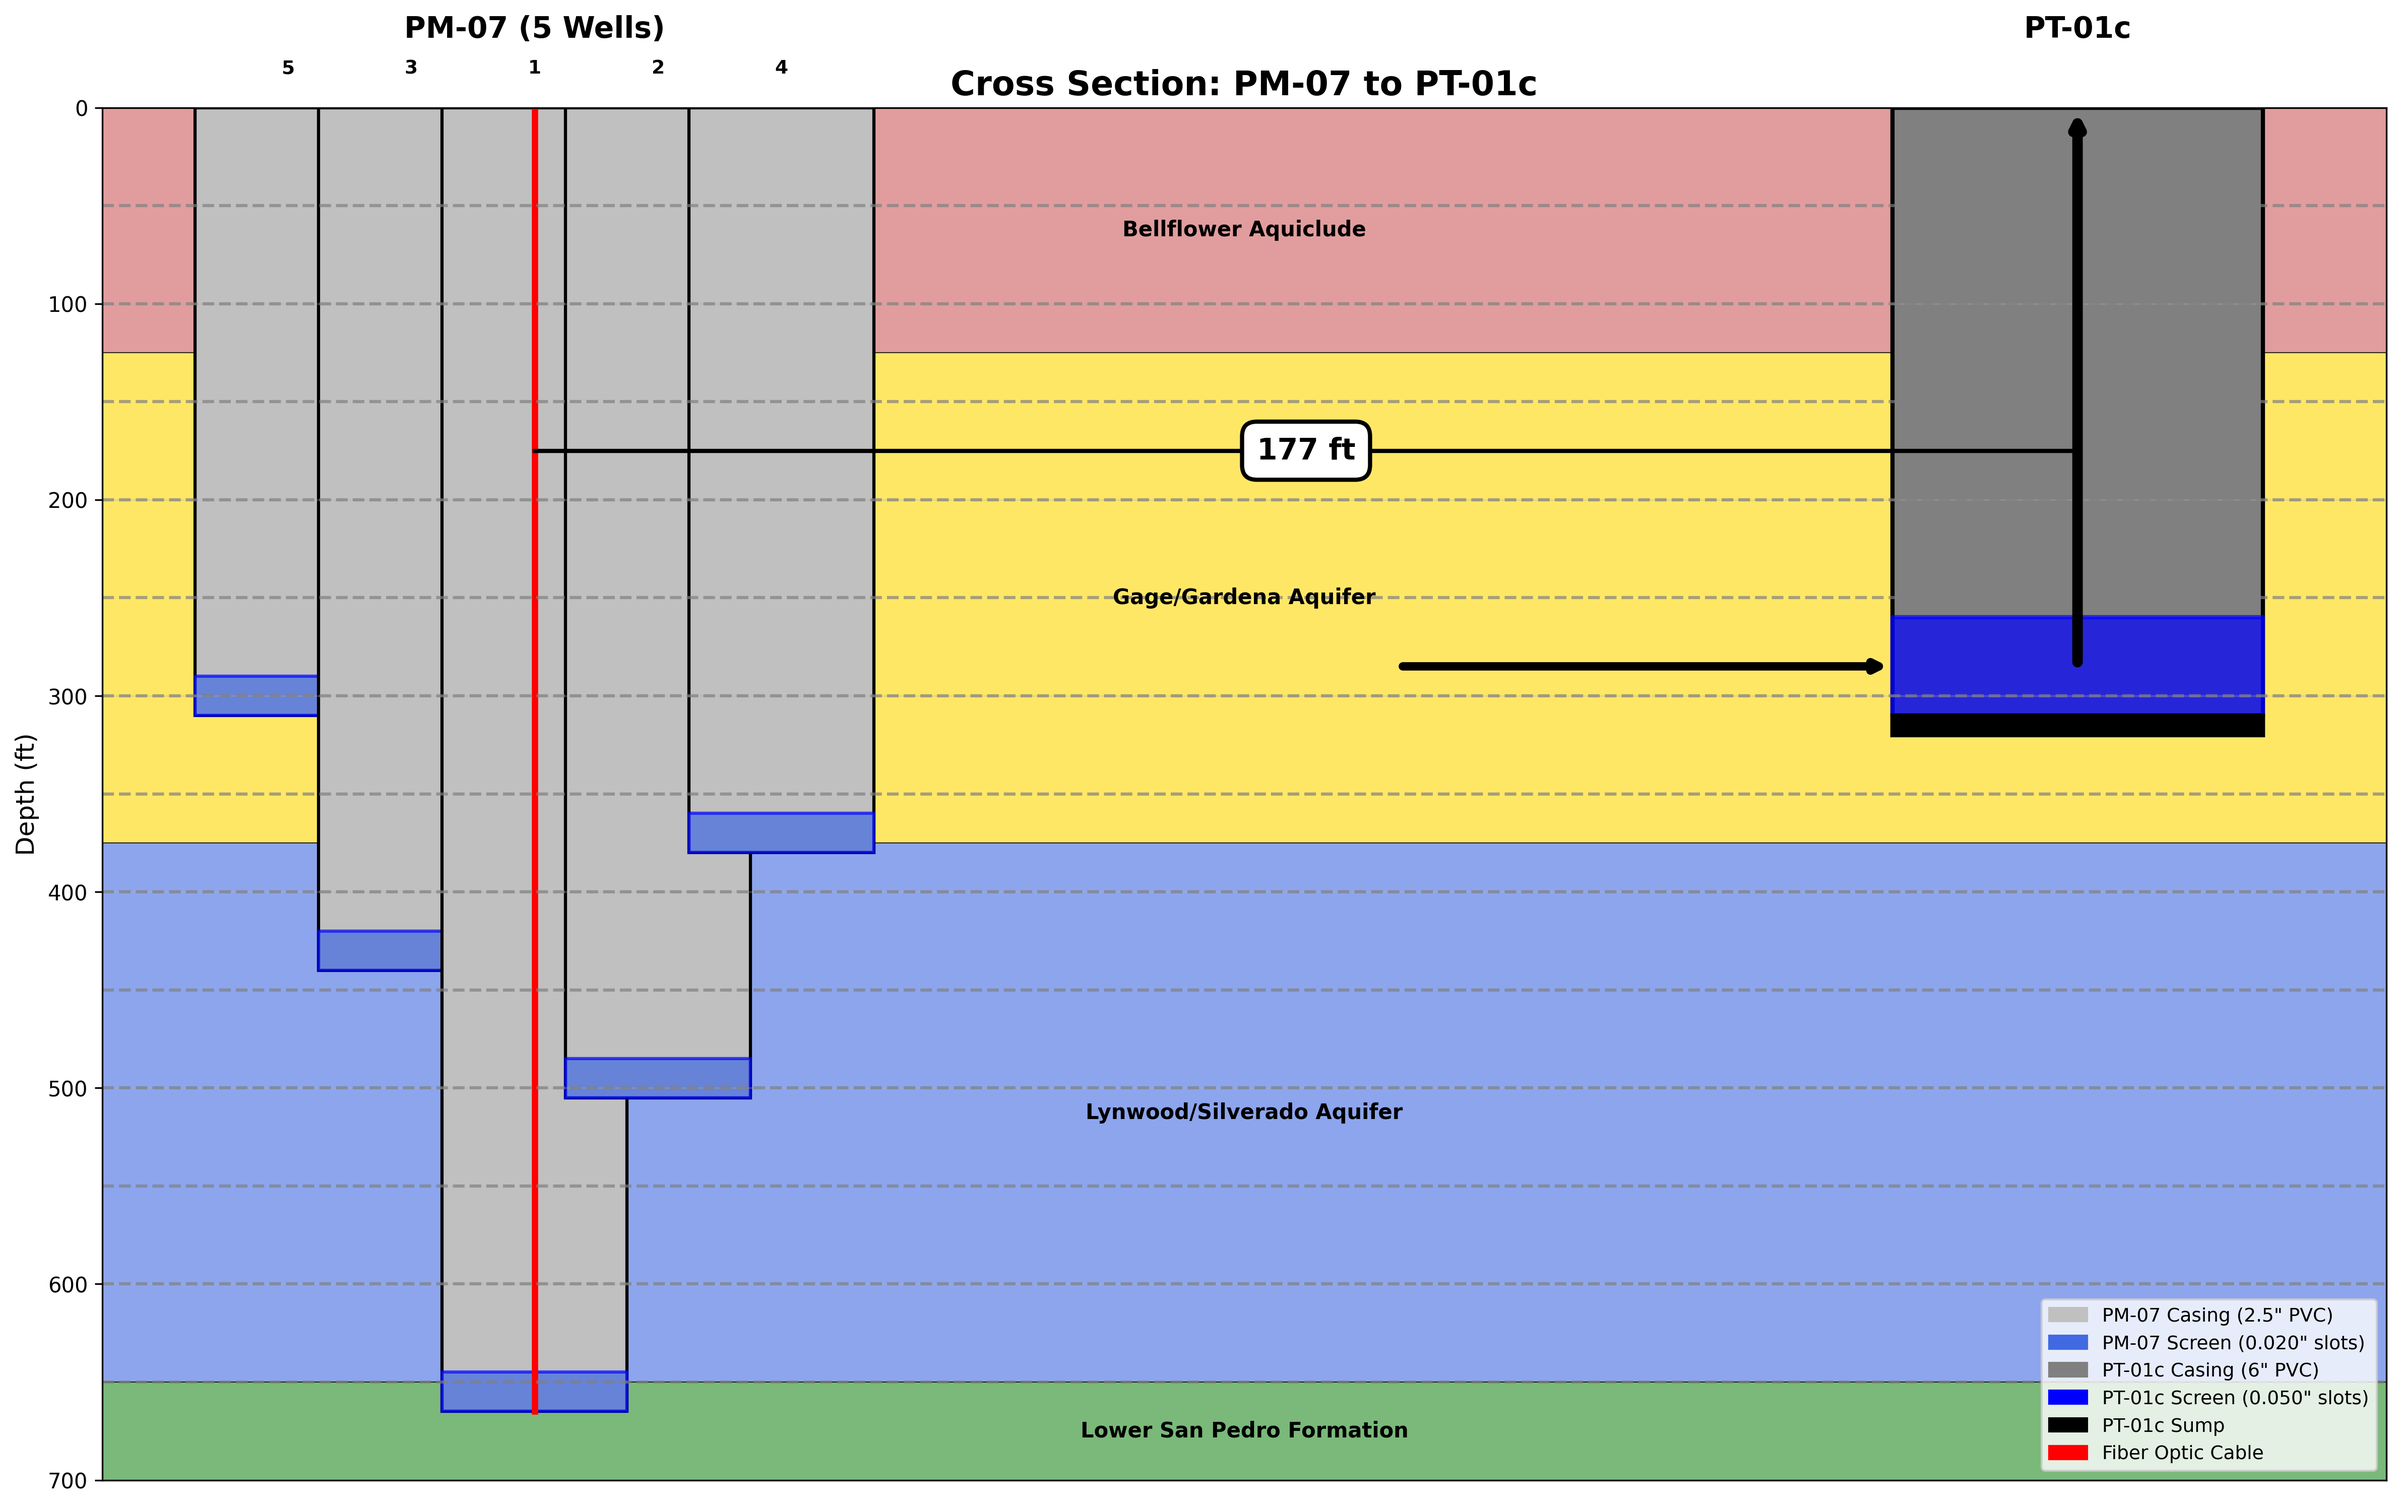
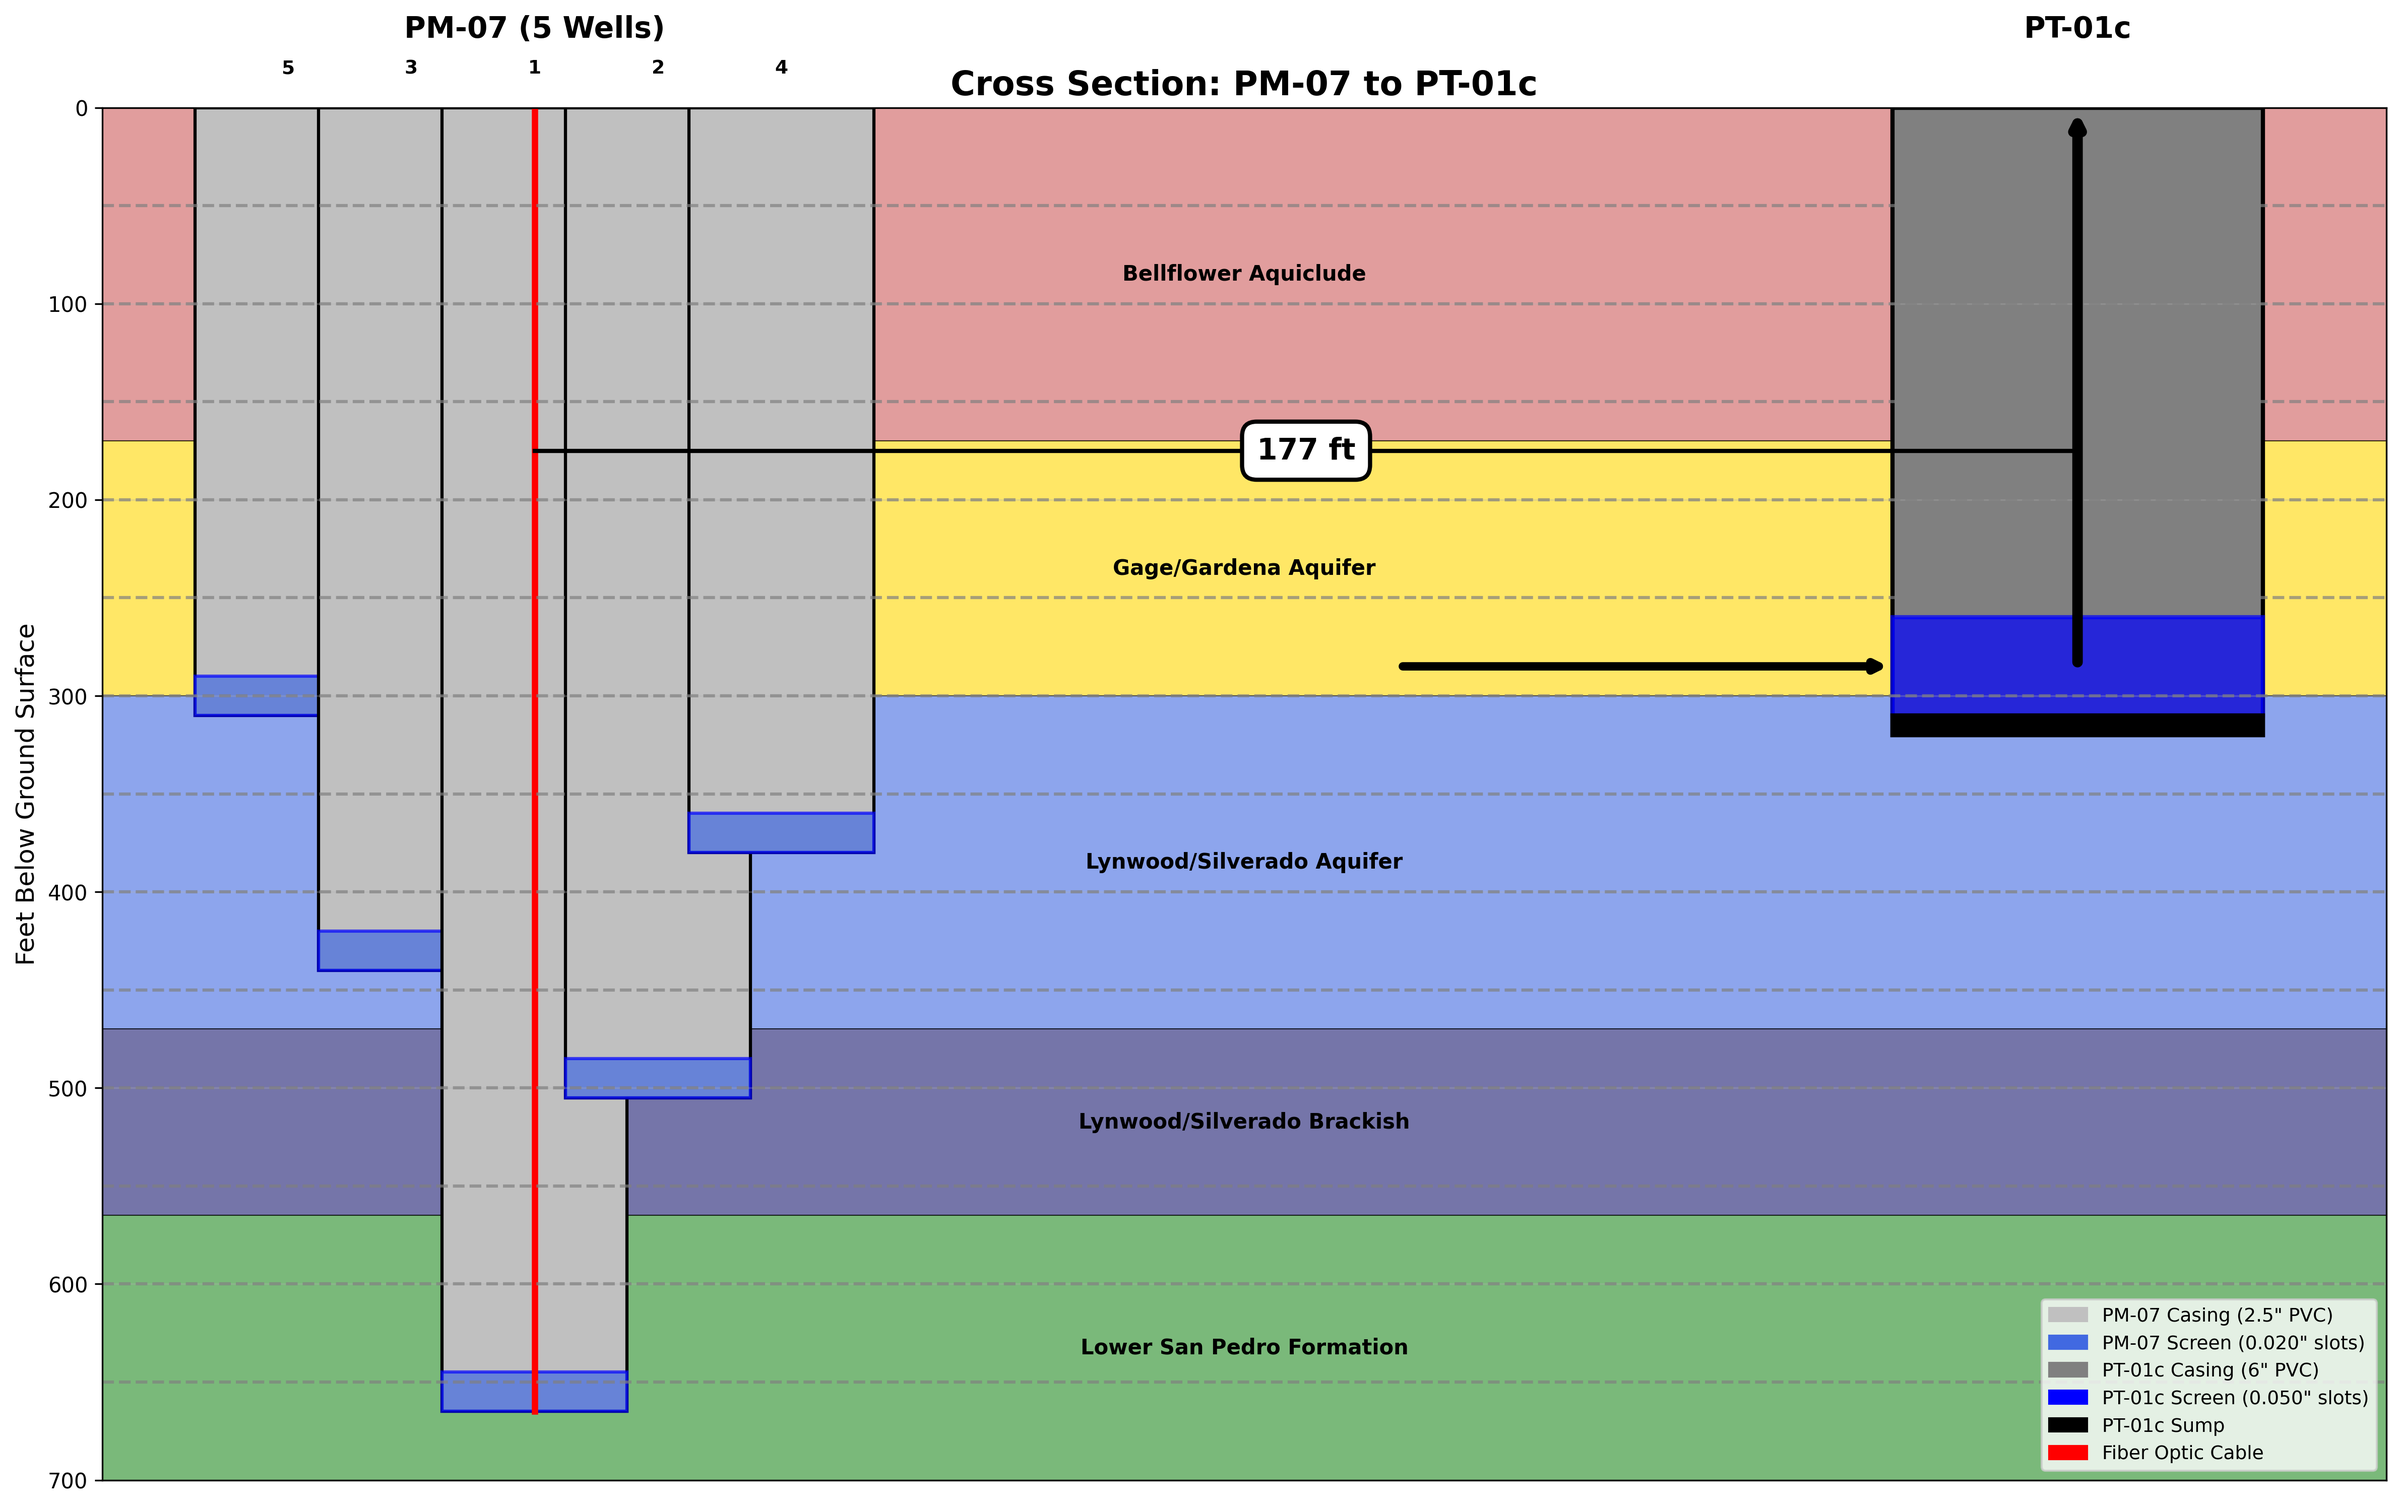
_X

diff --git a/Cross_sectiom/create_simple_cross_section.py b/Cross_sectiom/create_simple_cross_section.py
@@ -44,7 +44,7 @@ def create_simple_cross_section():
     ax.set_xlim(-7, 30)
     ax.set_ylim(0, 700)
     ax.invert_yaxis()
-    ax.set_ylabel('Depth (ft)', fontsize=12)
+    ax.set_ylabel('Feet Below Ground Surface', fontsize=12)
     ax.set_xticks([])  # Remove x-axis ticks and labels
     ax.set_title('Cross Section: PM-07 to PT-01c', 
                  fontsize=16, fontweight='bold')
@@ -54,10 +54,11 @@ def create_simple_cross_section():
     
     # Plot geological layers (actual geology from site)
     geology_layers = [
-        (0, 125, 'Bellflower Aquiclude', '#CD5C5C'),  # Red
-        (125, 375, 'Gage/Gardena Aquifer', '#FFD700'),  # Yellow
-        (375, 650, 'Lynwood/Silverado Aquifer', '#4169E1'),  # Blue (extended to include brackish water)
-        (650, 700, 'Lower San Pedro Formation', '#228B22')  # Green
+        (0, 170, 'Bellflower Aquiclude', '#CD5C5C'),  # Red
+        (170, 300, 'Gage/Gardena Aquifer', '#FFD700'),  # Yellow
+        (300, 470, 'Lynwood/Silverado Aquifer', '#4169E1'),  # Blue
+        (470, 565, 'Lynwood/Silverado Brackish', '#191970'),  # Dark Blue
+        (565, 700, 'Lower San Pedro Formation', '#228B22')  # Green
     ]
     
     for top, bottom, name, color in geology_layers:

diff --git a/docs/2025-09-28-todo.md b/docs/2025-09-28-todo.md
@@ -1,0 +1,3 @@
+Strain rate (das) vs. drawdown rate (head)
+make strain more linear (prep)
+head 
